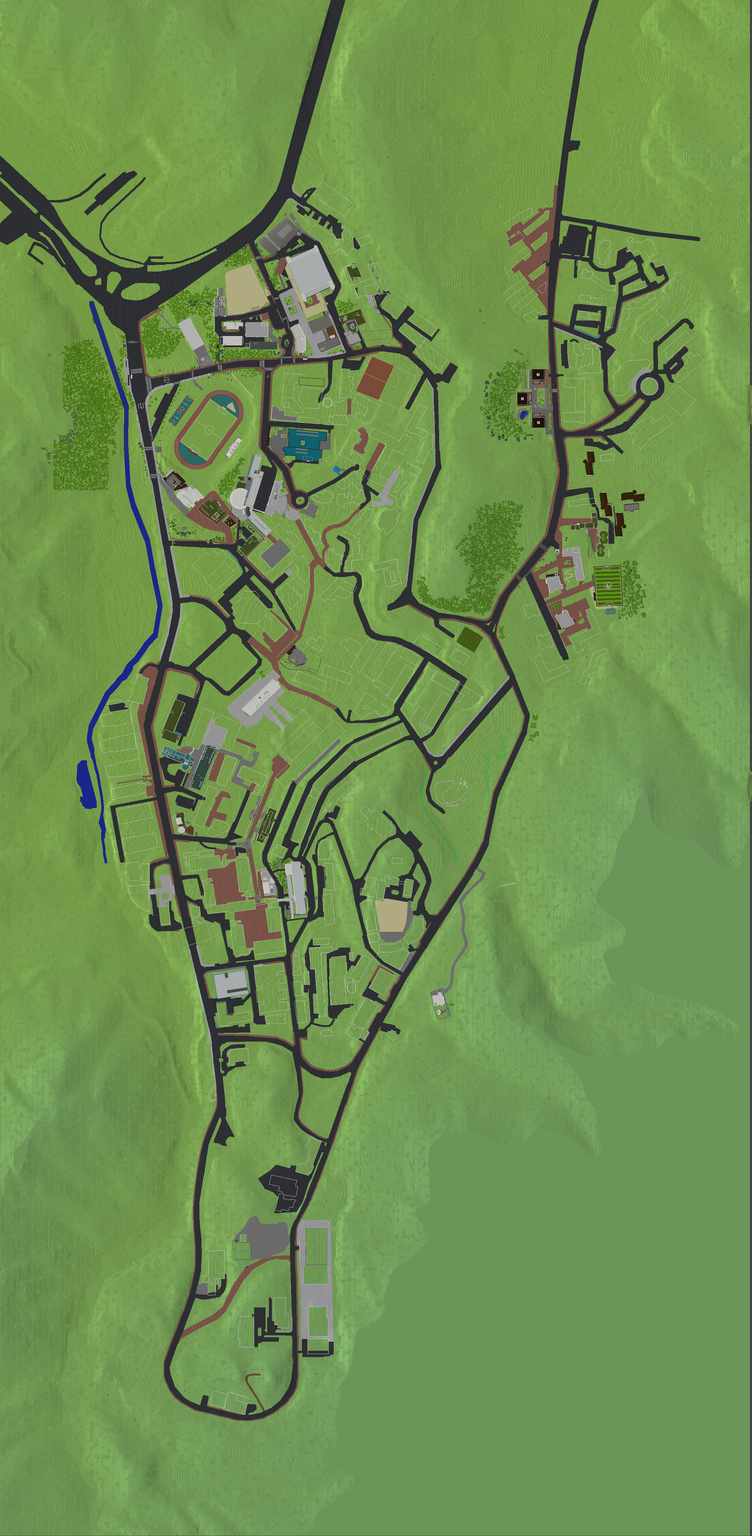
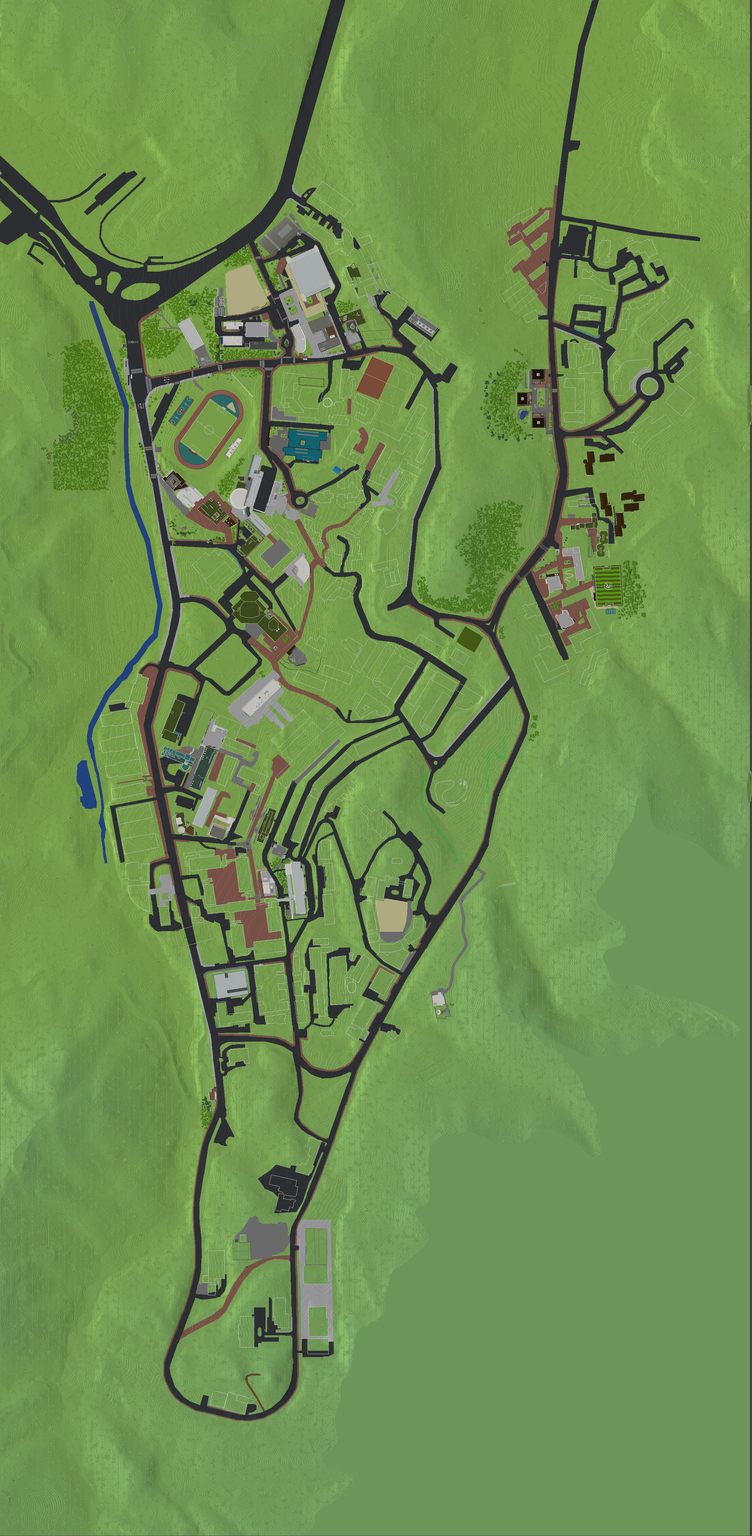
0102

diff --git a/todo.html b/todo.html
@@ -53,7 +53,7 @@
 								<article>
 									<header>
 										<h2>TO DO</h2>
-										<p>현재 해야할 것들(2021년 12월 24일 기준)</p>
+										<p>현재 해야할 것들(2022년 1월 2일 기준)</p>
 									</header>
 
 									<h3>건축 진행상황</h3>
@@ -62,7 +62,7 @@
 									<p>💬 표시는 건축 중인 건물입니다.</p>
 
 									<div id="todoList" style="padding-bottom: 15px;">
-										<p id="todo" style="display: block; font-size: 23px;">전체 완성률: 65/237 (27.4%) <progress max="237" value="65"> </progress> </p>
+										<p id="todo" style="display: block; font-size: 23px;">전체 완성률: 67/237 (28.3%) <progress max="237" value="67"> </progress> </p>
 										<div style="display: flex; justify-content: space-between">
 										<div class="areaList" style="padding: 20px;">
 											<ul class="areaList">
@@ -74,9 +74,9 @@
 												<li class="dorm" onclick="showDetail(`dorm`)"><span>기숙사 구역</span><br><span>(15/24)</span></li>
 												<li class="downEng" onclick="showDetail(`downEng`)"><span>아랫공대 구역</span><br><span>(3/15)</span></li>
 												<li class="musicArt" onclick="showDetail(`musicArt`)"><span>음미대 구역</span><br><span>(1/14)</span></li>
-												<li class="business" onclick="showDetail(`business`)"><span>경영대 구역</span><br><span>(1/7)</span></li>
+												<li class="business" onclick="showDetail(`business`)"><span>경영대 구역</span><br><span>(2/7)</span></li>
 												<li class="humanEcology" onclick="showDetail(`humanEcology`)"><span>생활대 구역</span><br><span>(0/7)</span></li>
-												<li class="lawSchool" onclick="showDetail(`lawSchool`)"><span>법대 구역</span><br><span>(2/8)</span></li>
+												<li class="lawSchool" onclick="showDetail(`lawSchool`)"><span>법대 구역</span><br><span>(3/8)</span></li>
 												<li class="vet" onclick="showDetail(`vet`)"><span>수의대 구역</span><br><span>(1/8)</span></li>
 												<li class="education" onclick="showDetail(`education`)"><span>사범대 구역</span><br><span>(0/9)</span></li>
 												<li class="agriculture" onclick="showDetail(`agriculture`)"><span>농생대 구역</span><br><span>(0/9)</span></li>
@@ -232,10 +232,10 @@
 												<li>예술계복합교육연구동</li>
 											</ul>
 											<ul id="business" style="visibility: hidden">
-												<li>경영대 구역 완성률: <progress max="7" value="1"> </progress> 14%</li>
+												<li>경영대 구역 완성률: <progress max="7" value="2"> </progress> 29%</li>
 												<br>
 												<li>SK경영관(58) 💬</li>
-												<li>동원생활관(113) 💬</li>
+												<li>동원생활관(113) ✔</li>
 												<li>매니지먼트센터(59-1)</li>
 												<li>LG경영관(59)</li>
 												<li>행정대학원(57)</li>
@@ -254,10 +254,10 @@
 												<li>생활대 부근 도로</li>
 											</ul>
 											<ul id="lawSchool" style="visibility: hidden">
-												<li>법대 구역 완성률: <progress max="8" value="2"> </progress> 25%</li>
+												<li>법대 구역 완성률: <progress max="8" value="3"> </progress> 38%</li>
 												<br>
 												<li>법학관1(15)</li>
-												<li>법학관2</li>
+												<li>법학관2(17) ✔</li>
 												<li>법대첨단강의동(15-1)</li>
 												<li>법학도서관(72)</li>
 												<li>근대법학교육100주년기념관(84) ✔</li>

diff --git a/map.html b/map.html
@@ -57,7 +57,7 @@
                 </details>
                 <p>
 
-                <p style="margin-bottom: 0;">2021.11.25.</p>
+                <p style="margin-bottom: 0;">2022.1.2.</p>
                 <a href="#"><img src="images/snumap.png" align="top" width="600"></a>
               </header>
 
